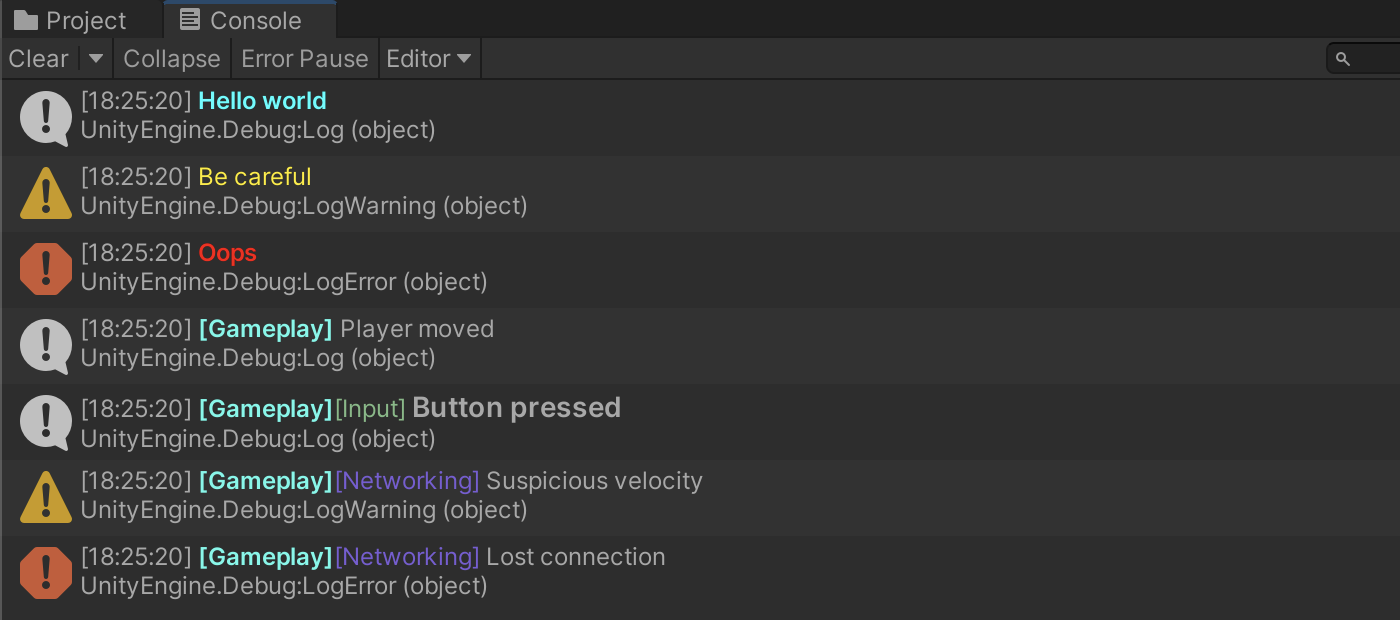
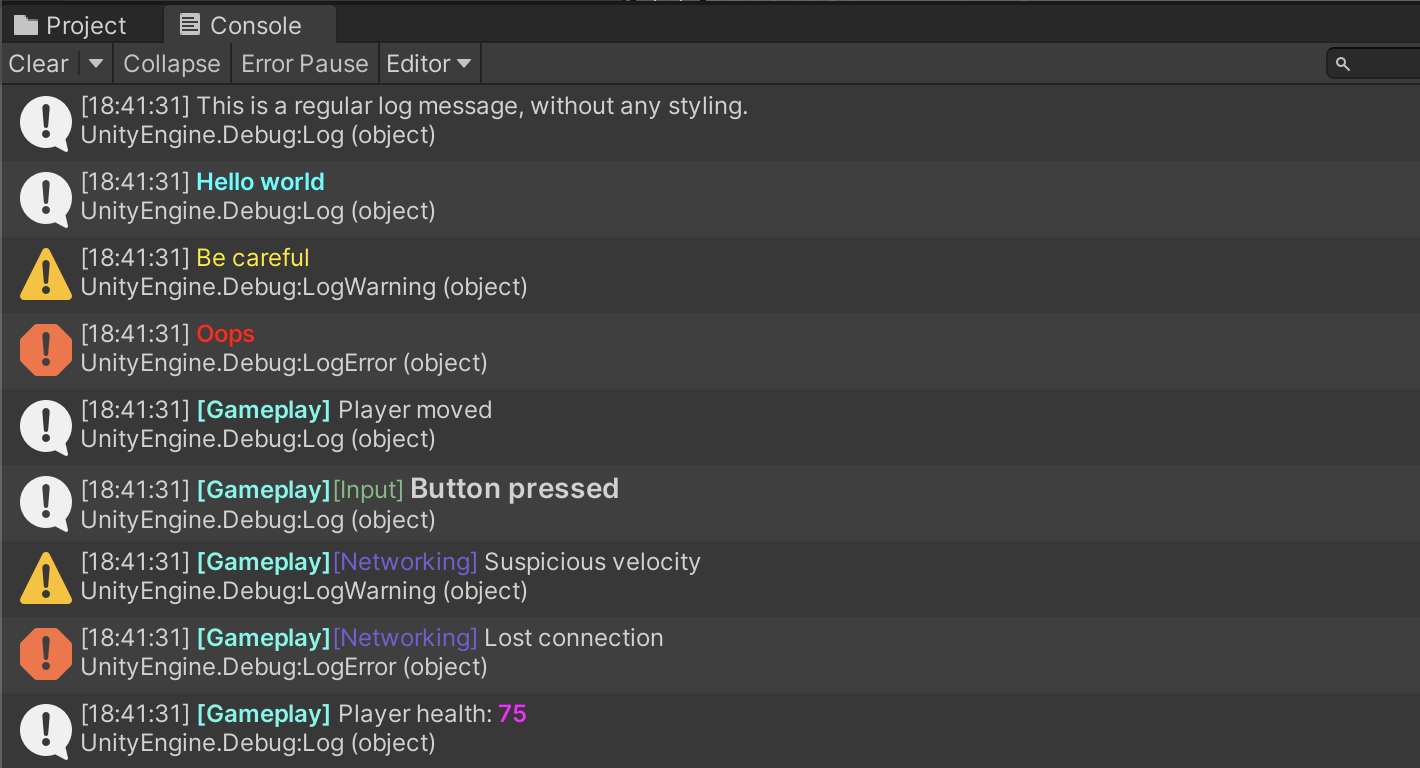
Added custom styling examples + readme (now 0.5.1)

Changed region(s): [[0.0, 0.0, 1.0, 1.0]]

diff --git a/Samples~/PrettyLogBasicUsage/SampleUsage.cs b/Samples~/PrettyLogBasicUsage/SampleUsage.cs
@@ -1,4 +1,5 @@
 using UnityEngine;
+using PrettyLogSystem;
 
 /// <summary>
 /// Small example component showing how to use `PrettyLog` from a scene.
@@ -11,6 +12,8 @@ public class PrettyLogSampleUsage : MonoBehaviour
 
     void Start()
     {
+        Debug.Log("This is a regular log message, without any styling.");
+        
         // Quick logging with default styling
         PrettyQuickLog.Log("Hello world", Color.cyan, isBold: true);
         PrettyQuickLog.LogWarning("Be careful", Color.yellow);
@@ -30,5 +33,8 @@ public class PrettyLogSampleUsage : MonoBehaviour
         PrettyLog.Log(SCRIPT_CHANNEL, "Input", "Button pressed");
         PrettyLog.LogWarning(SCRIPT_CHANNEL, "Networking", "Suspicious velocity");
         PrettyLog.LogError(SCRIPT_CHANNEL, "Networking", "Lost connection");
+
+        // Personalized log with custom styling
+        PrettyLog.Log(SCRIPT_CHANNEL, $"Player health: {"75".Bold().Color("#ff00ff")}");
     }
 }

diff --git a/README.md b/README.md
@@ -67,6 +67,14 @@ PrettyLog.LogWarning("Gameplay", "Networking", "Suspicious velocity");
 PrettyLog.LogError("Gameplay", "Networking", "Lost connection");
 ```
 
+## Personalized logging with custom styling
+
+```csharp
+PrettyLog.Log(SCRIPT_CHANNEL, $"Player health: {"75".Bold().Color("#ff00ff")}");
+```
+
+## Resulting Console
+
 ![Screenshot](img~/screenshot.png)
 
 ## Muting channels and sub-channels
@@ -75,7 +83,6 @@ PrettyLog.LogError("Gameplay", "Networking", "Lost connection");
 PrettyLog.SetChannelMute("Gameplay", true);
 PrettyLog.SetSubChannelMute("Gameplay", "Input", true);
 ```
-
 
 # Contributing
 

diff --git a/CHANGELOG.md b/CHANGELOG.md
@@ -7,6 +7,9 @@ This project uses Semantic Versioning.
 
 ---
 
+## [0.5.1] - 2026-06-03
+- Added logging with custom styling.
+
 ## [0.5.0] - 2026-06-03
 - Added screenshots in README.
 
